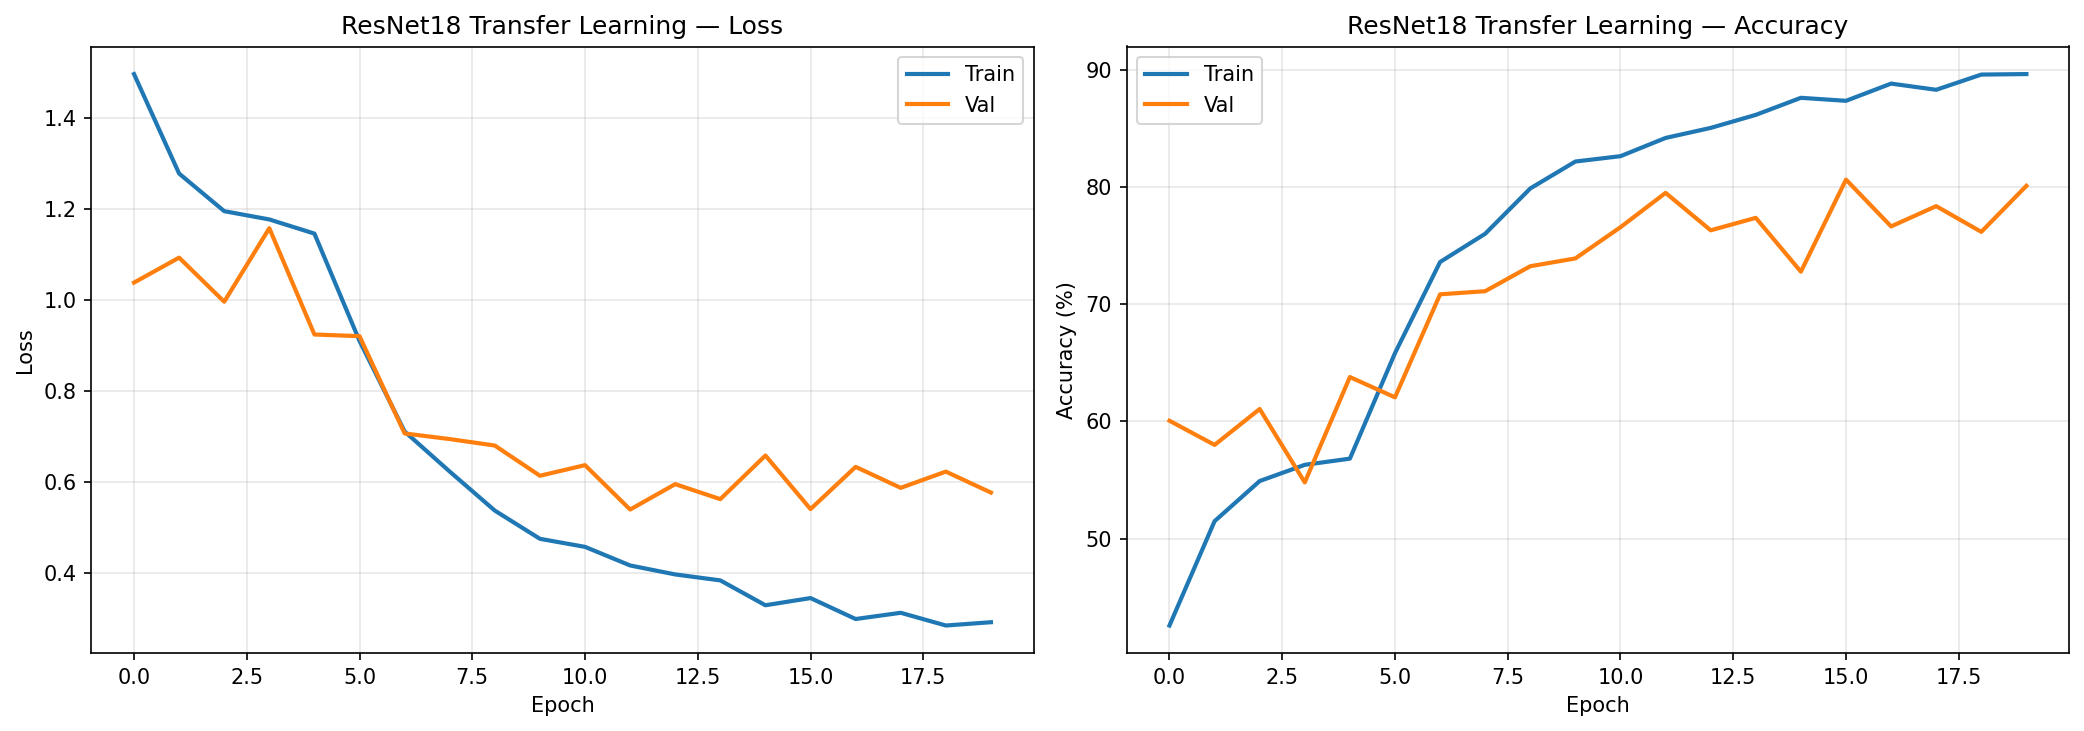
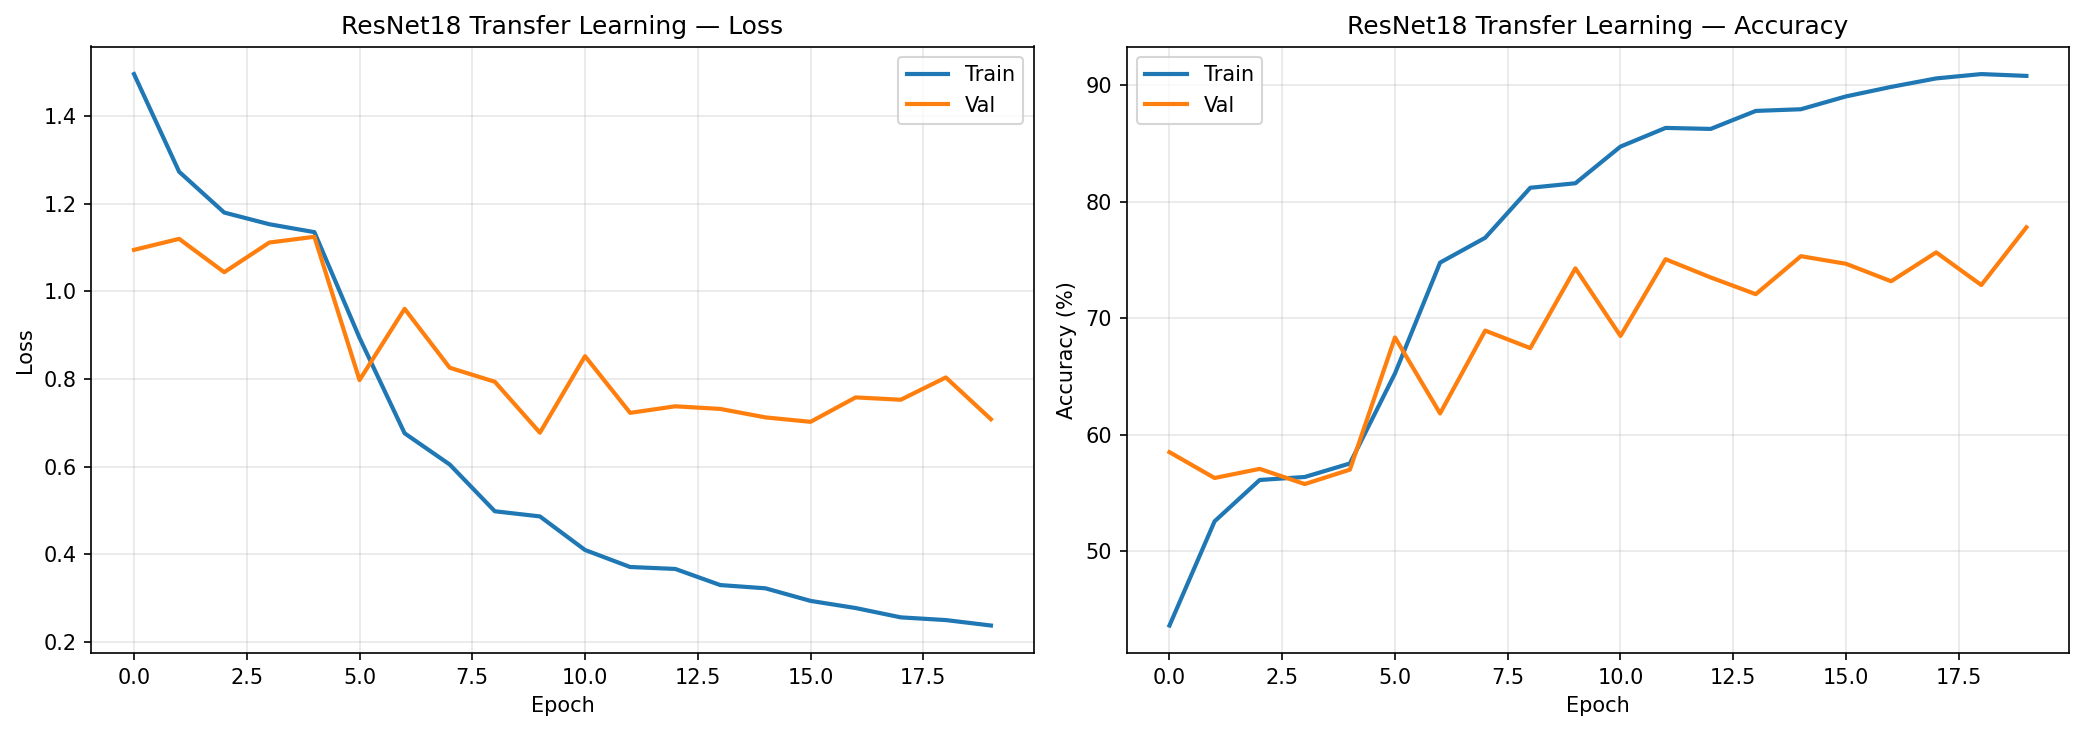
Fill report.tex with actual training results
- Results table: Baseline CNN 59.72%/F1=0.6363, ResNet18 77.30%/F1=0.7824/AUC=0.9495
- Update abstract with real numbers instead of placeholders
- Fix data split counts to actual values (6981/1532/1502)
- Correct Baseline CNN parameter count (~2.5M, measured vs estimated ~4.7M)

diff --git a/report.tex b/report.tex
@@ -99,9 +99,10 @@
         nevus} constitutes 67\% of all samples---addressed via
         \texttt{WeightedRandomSampler}. Models are evaluated using weighted
         F1-score, per-class AUC-ROC, and Grad-CAM attention maps.
-        Transfer learning is expected to outperform the baseline by a
-        significant margin, consistent with the literature benchmark of
-        $\sim$80\% accuracy for ResNet18 on this dataset.
+        Transfer learning outperforms the baseline by a significant margin:
+        ResNet18 achieves 77.30\% accuracy and 0.9495 macro AUC-ROC, compared
+        to 59.72\% accuracy for the Baseline CNN, consistent with the
+        literature benchmark of $\sim$80\% accuracy for ResNet18 on this dataset.
     \end{abstract}
 \end{titlepage}
 
@@ -214,7 +215,7 @@ proportions in every subset:
 
 \begin{equation}
     \text{Train} : \text{Val} : \text{Test} = 70\% : 15\% : 15\%
-    \quad \Rightarrow \quad 7{,}010 : 1{,}503 : 1{,}502
+    \quad \Rightarrow \quad 6{,}981 : 1{,}532 : 1{,}502
     \label{eq:split}
 \end{equation}
 
@@ -320,7 +321,7 @@ learning.
         FC 1       & Linear(4096$\to$512) + ReLU + Dropout(0.4)   & 512 \\
         FC 2       & Linear(512$\to$7)                             & 7 \\
         \midrule
-        \multicolumn{2}{l}{\textbf{Total parameters}} & $\approx$ 4.7 M \\
+        \multicolumn{2}{l}{\textbf{Total parameters}} & $\approx$ 2.5 M \\
         \bottomrule
     \end{tabular}
     \label{tab:baseline_arch}
@@ -546,8 +547,8 @@ of the backbone.
         \textbf{Model} & \textbf{Accuracy} & \textbf{Weighted F1}
         & \textbf{Macro AUC-ROC} & \textbf{Parameters} \\
         \midrule
-        Baseline CNN              & --- & --- & ---  & $\approx$4.7\,M \\
-        ResNet18 Transfer Learning & --- & --- & ---  & $\approx$11.2\,M \\
+        Baseline CNN              & 59.72\% & 0.6363 & ---    & 2{,}490{,}631 \\
+        ResNet18 Transfer Learning & 77.30\% & 0.7824 & 0.9495 & 11{,}689{,}512 \\
         \midrule
         \multicolumn{5}{l}{\textit{Literature benchmarks (HAM10000):}} \\
         ResNet18 (He et al.)      & $\sim$80\% & --- & --- & 11.2\,M \\
